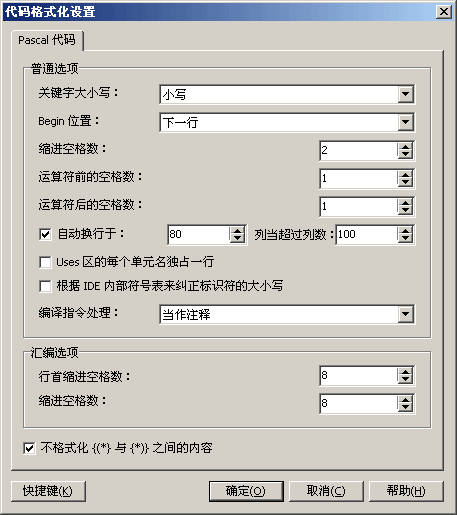
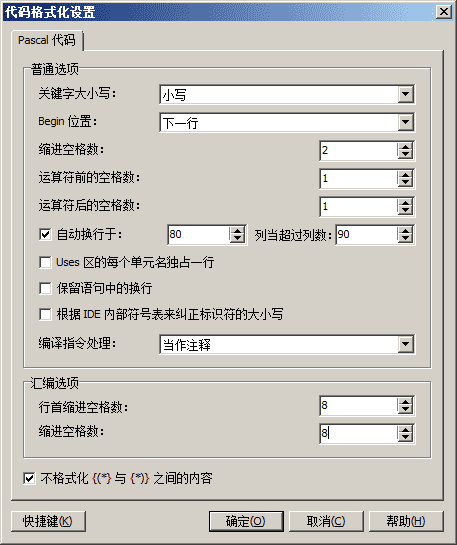
* [Code Formatter] Update Help and Snapshot for New Option.

diff --git a/Help/CnWizards_ENU/wizards/codeformatter.htm b/Help/CnWizards_ENU/wizards/codeformatter.htm
@@ -45,6 +45,8 @@
 <p class="text"><b>Auto Wrap</b>: There are 2 Line Width in Auto Wrap Setting: the Smaller One "Break Line Width" and the Bigger One "Exceeding Width". When a Line Exceeds the "Exceeding Width", it will be Broken to Next Line at "Breake Line Width". This Feature can avoid some Minor Contents at Next Line when the Original Line is a Little Longer than "Exceeding Width".</p></li>
 	<li>
 <p class="text"><b>Single Line Mode for Every Uses Unit</b>: If Checked, Every Unit Name in Uses Area will Occupy One Line, Otherwise Use a Simple auto Wrap Mode with the above Break Line Width. Note: The uses Area in Project Source will Always Occupy One Line Each for there may be 'in' and File Path after Unit Name.</p></li>
+	<li>
+<p class="text"><b>Keep User Line Break in Statement</b>: If Checked, Line Breaks in a Statement will be kept. Auto Wrap Options will be ignored.</p></li>
   <li>
 <p class="text"><b>Use IDE Internal Symbols to Correct Identifiers</b>: If Checked, Code Formatter will Compile Current Unit and Use IDE Internal Symbols to Correct the Identifiers in Source. This Feature Depends on Input Helper.</p></li>
   <li>
